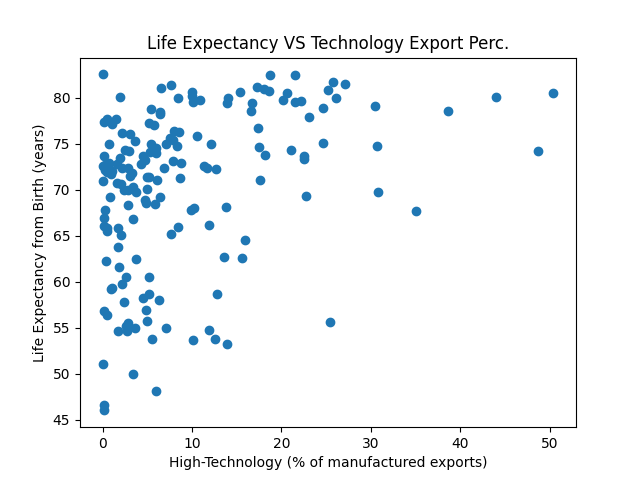
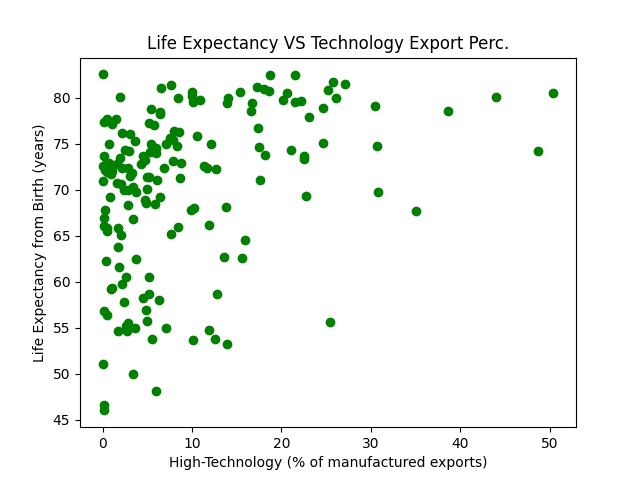
MS03 visuals/categories_sample_size.png

diff --git a/wf_visualization.py b/wf_visualization.py
@@ -1,5 +1,6 @@
 # INSTALLED matplotlib
 import matplotlib.pylab as plt
+
 import csv
 
 __author__ = "John Garvey"
@@ -8,6 +9,8 @@ __assignment = "Project MS03"
 
 # NUMBER OF COUNTRIES IN DATASET
 NUMB_COUNTRIES = 217
+# NUMBER OF DATA CATEGORIES
+NUMB_CATEGORIES = 5
 # life expectancy data and quantitative data lists
 le_total = []
 le_total_summ = []
@@ -43,6 +46,10 @@ def visualize_data():
     get_correlations()
     write_correlations_data_table()
     create_scatter_plots()
+
+    # TODO Create a histogram for qualitative data
+    create_histogram()
+
     """ PRIMITIVE TESTS """
     # print("Number of Countries is", len(le_total))
     # print("Life Expectancy in", le_total[206]['Country Name'], le_total[206]['Country Code'], "in 2015 is", int(float(le_total[206]['2015'])), "years old")
@@ -67,6 +74,44 @@ def visualize_data():
     pass
 
 
+def create_histogram():
+
+    # le_total_summ = LEB
+    # gdp_pcap_summ = GDP
+    # tech_expo_summ = HTE
+    # udwe_child_summ = UWC
+    # pov_ratio_summ = NPR
+
+    numbers_collected = [
+        le_total_summ[0]["Number Collected From"],
+        gdp_pcap_summ[0]["Number Collected From"],
+        tech_expo_summ[0]["Number Collected From"],
+        udwe_child_summ[0]["Number Collected From"],
+        pov_ratio_summ[0]["Number Collected From"],
+    ]
+
+    category_types = ["LEB", "GDP", "HTE", "UWC", "NPR"]
+
+    fig, ax = plt.subplots()
+    ax.set(title=r'Data Category Sample Sizes ', ylabel='Number of Countries Collectd From', xlabel="Data Categories")
+    bars = ax.bar(category_types, numbers_collected)
+    bars[0].set_color('green')
+    bars[0].set_label("LEB = "+le_total_summ[0]["Data Type"])
+    bars[1].set_color('red')
+    bars[1].set_label("GDP = "+gdp_pcap_summ[0]["Data Type"])
+    bars[2].set_color('purple')
+    bars[2].set_label("HTE = "+tech_expo_summ[0]["Data Type"])
+    bars[3].set_color('orange')
+    bars[3].set_label("UWC = "+udwe_child_summ[0]["Data Type"])
+    bars[4].set_color('blue')
+    bars[4].set_label("NPR = "+pov_ratio_summ[0]["Data Type"])
+    ax.bar_label(bars, fmt='%.2f')
+    ax.legend(loc='lower right')
+    fig.savefig("visuals/categories_sample_size.png")
+
+    pass
+
+
 def create_scatter_plots():
 
     # : Create scatter plots for all pairs of quantitative features that you selected.
@@ -75,39 +120,51 @@ def create_scatter_plots():
     #  plot the MEANS for all pair categories of data i.e. LEB, GDP, HTE, UWC, NPR
 
     # LEB_GDP = le_total_summ, gdp_pcap_summ
-    create_pair_plot(le_total_summ, gdp_pcap_summ, "LEB_GDP", "Life Expectancy VS GDP")
+    create_pair_plot(le_total_summ, gdp_pcap_summ, "LEB_GDP")
 
     # LEB_HTE = le_total_summ, tech_expo_summ
-    create_pair_plot(le_total_summ, tech_expo_summ, "LEB_HTE", "Life Expectancy VS Technology Export Perc.")
+    create_pair_plot(le_total_summ, tech_expo_summ, "LEB_HTE")
 
     # LEB_UWC = le_total_summ, udwe_child_summ
-    create_pair_plot(le_total_summ, udwe_child_summ, "LEB_UWC", "Life Expectancy VS Underweight Children")
+    create_pair_plot(le_total_summ, udwe_child_summ, "LEB_UWC")
 
     # LEB_NPR = le_total_summ, pov_ratio_summ
-    create_pair_plot(le_total_summ, pov_ratio_summ, "LEB_NPR", "Life Expectancy VS National Poverty Ratio")
+    """ 
+    There is noticeable difference between the plot and the correlation
+    The correlation is -0.324 but the plot seems to suggest a much stronger
+    negative correlation. This is because the plot is using all every countries
+    mean life expectancy and mean poverty ratio which shows a stronger correlation.
+    Each countries correlation is calculated from the matching data in each year for both 
+    life expectancy and  poverty ratio, if there is no data in each matching year then it not
+    add to the correlation calculation. Which means the calc correlation will use much fewer values
+    for its calculations. Each country may only have a couple entries for NPR so the only compare those
+    two entries with the corresponding years value for the LEB. Which means much different representations of the LEB
+    than the mean LEB of that country.
+    """
+    create_pair_plot(le_total_summ, pov_ratio_summ, "LEB_NPR")
 
     # GDP_HTE = gdp_pcap_summ, tech_expo_summ
-    create_pair_plot(gdp_pcap_summ, tech_expo_summ, "GDP_HTE", "GDP VS Technology Export Perc.")
+    create_pair_plot(gdp_pcap_summ, tech_expo_summ, "GDP_HTE")
 
     # GDP_UWC = gdp_pcap_summ, udwe_child_summ
-    create_pair_plot(gdp_pcap_summ, udwe_child_summ, "GDP_UWC", "GDP VS Underweight Children")
+    create_pair_plot(gdp_pcap_summ, udwe_child_summ, "GDP_UWC")
 
     # GDP_NPR = gdp_pcap_summ, pov_ratio_summ
-    create_pair_plot(gdp_pcap_summ, pov_ratio_summ, "GDP_NPR", "GDP VS National Poverty Ratio")
+    create_pair_plot(gdp_pcap_summ, pov_ratio_summ, "GDP_NPR")
 
     # HTE_UWC = tech_expo_summ, udwe_child_summ
-    create_pair_plot(tech_expo_summ, udwe_child_summ, "HTE_UWC", "Technology Export Perc. VS Underweight Children")
+    create_pair_plot(tech_expo_summ, udwe_child_summ, "HTE_UWC")
 
     # HTE_NPR = tech_expo_summ, pov_ratio_summ
-    create_pair_plot(tech_expo_summ, pov_ratio_summ, "HTE_NPR", "Technology Export Perc. VS National Poverty Ratio")
+    create_pair_plot(tech_expo_summ, pov_ratio_summ, "HTE_NPR")
 
     # UWC_NPR = udwe_child_summ, pov_ratio_summ
-    create_pair_plot(udwe_child_summ, pov_ratio_summ, "UWC_NPR", "Underweight Children VS National Poverty Ratio")
+    create_pair_plot(udwe_child_summ, pov_ratio_summ, "UWC_NPR")
 
     pass
 
 
-def create_pair_plot(summ_data_y, summ_data_x, indic, title):
+def create_pair_plot(summ_data_y, summ_data_x, indic):
 
     data_means_x = []
     data_means_y = []
@@ -120,9 +177,63 @@ def create_pair_plot(summ_data_y, summ_data_x, indic, title):
     # display_list(data_means_y)
 
     fig, ax = plt.subplots()
-    ax.set(title=title, ylabel=summ_data_y[0]["Data Type"], xlabel=summ_data_x[0]["Data Type"])
-    ax.scatter(data_means_x, data_means_y)
-    fig.savefig(f"visuals/{title.lower().replace(' ' ,'_')}.png")
+    match indic:
+        case "LEB_GDP":
+            title = "Life Expectancy VS GDP"
+            ax.scatter(data_means_x, data_means_y, color="red")
+            ax.set(title=title, ylabel=summ_data_y[0]["Data Type"], xlabel=summ_data_x[0]["Data Type"])
+            fig.savefig(f"visuals/{title.lower().replace(' ', '_')}.png")
+            ax.set(xlim=[0, 40000], title=title+" Focused", ylabel=summ_data_y[0]["Data Type"], xlabel=summ_data_x[0]["Data Type"])
+            fig.savefig(f"visuals/{title.lower().replace(' ', '_')}_focused.png")
+        case "LEB_HTE":
+            title = "Life Expectancy VS Technology Export Perc."
+            ax.scatter(data_means_x, data_means_y, color="green")
+            ax.set(title=title, ylabel=summ_data_y[0]["Data Type"], xlabel=summ_data_x[0]["Data Type"])
+            fig.savefig(f"visuals/{title.lower().replace(' ', '_')}.png")
+        case "LEB_UWC":
+            title = "Life Expectancy VS Underweight Children"
+            ax.scatter(data_means_x, data_means_y, color="purple")
+            ax.set(title=title, ylabel=summ_data_y[0]["Data Type"], xlabel=summ_data_x[0]["Data Type"])
+            fig.savefig(f"visuals/{title.lower().replace(' ', '_')}.png")
+        case "LEB_NPR":
+            title = "Life Expectancy VS National Poverty Ratio"
+            ax.scatter(data_means_x, data_means_y, color="hotpink")
+            ax.set(title=title, ylabel=summ_data_y[0]["Data Type"], xlabel=summ_data_x[0]["Data Type"])
+            fig.savefig(f"visuals/{title.lower().replace(' ', '_')}.png")
+        case "GDP_HTE":
+            title = "GDP VS Technology Export Perc."
+            ax.scatter(data_means_x, data_means_y, color="black")
+            ax.set(title=title, ylabel=summ_data_y[0]["Data Type"], xlabel=summ_data_x[0]["Data Type"])
+            fig.savefig(f"visuals/{title.lower().replace(' ', '_')}.png")
+        case "GDP_UWC":
+            title = "GDP VS Underweight Children"
+            ax.scatter(data_means_x, data_means_y, color="magenta")
+            ax.set(title=title, ylabel=summ_data_y[0]["Data Type"], xlabel=summ_data_x[0]["Data Type"])
+            fig.savefig(f"visuals/{title.lower().replace(' ', '_')}.png")
+            ax.set(ylim=[0, 20000], title=title+" Focused", ylabel=summ_data_y[0]["Data Type"], xlabel=summ_data_x[0]["Data Type"])
+            fig.savefig(f"visuals/{title.lower().replace(' ', '_')}_focused.png")
+        case "GDP_NPR":
+            title = "GDP VS National Poverty Ratio"
+            ax.scatter(data_means_x, data_means_y, color="blue")
+            ax.set(title=title, ylabel=summ_data_y[0]["Data Type"], xlabel=summ_data_x[0]["Data Type"])
+            fig.savefig(f"visuals/{title.lower().replace(' ', '_')}.png")
+            ax.set(ylim=[0, 20000], title=title+" Focused", ylabel=summ_data_y[0]["Data Type"], xlabel=summ_data_x[0]["Data Type"])
+            fig.savefig(f"visuals/{title.lower().replace(' ', '_')}_focused.png")
+        case "HTE_UWC":
+            title = "Technology Export Perc. VS Underweight Children"
+            ax.scatter(data_means_x, data_means_y, color="orange")
+            ax.set(title=title, ylabel=summ_data_y[0]["Data Type"], xlabel=summ_data_x[0]["Data Type"])
+            fig.savefig(f"visuals/{title.lower().replace(' ', '_')}.png")
+        case "HTE_NPR":
+            title = "Technology Export Perc. VS National Poverty Ratio"
+            ax.scatter(data_means_x, data_means_y, color="darkblue")
+            ax.set(title=title, ylabel=summ_data_y[0]["Data Type"], xlabel=summ_data_x[0]["Data Type"])
+            fig.savefig(f"visuals/{title.lower().replace(' ', '_')}.png")
+        case "UWC_NPR":
+            title = "Underweight Children VS National Poverty Ratio"
+            ax.scatter(data_means_x, data_means_y, color="brown")
+            ax.set(title=title, ylabel=summ_data_y[0]["Data Type"], xlabel=summ_data_x[0]["Data Type"])
+            fig.savefig(f"visuals/{title.lower().replace(' ', '_')}.png")
 
     pass
 
@@ -212,7 +323,6 @@ def get_correlations():
              'UWC_NPR': Global Mean,
             }
     """
-
     # : Setup correlation data list
     setup_correlations_data_list()
     # Load correlation data
@@ -228,7 +338,6 @@ def get_correlations():
     find_correlations_for(udwe_child, udwe_child_summ, pov_ratio, pov_ratio_summ, "UWC_NPR")
     # Get the mean from all countries correlations and save as global correlations
     get_global_correlations()
-
     pass
 
 
@@ -257,6 +366,7 @@ def add_global_corr_means(key_name):
     n = 0
     for i in range(len(all_correlations)):
         if all_correlations[i][key_name] is not None:
+            # SHOWS CORRELATIONS
             # print(key_name, ": ", all_correlations[i][key_name])
             sum_values.append(all_correlations[i][key_name])
             n += 1
@@ -303,6 +413,7 @@ def setup_correlations_data_list():
 def find_correlations_for(proc_data_list_x, has_means_x, proc_data_list_y, has_means_y, indic):
 
     for i in range(NUMB_COUNTRIES):
+        # print(i)
         correlation = get_correlation(proc_data_list_x[i], has_means_x[i+2]['Mean'], proc_data_list_y[i], has_means_y[i+2]['Mean'])
         # : Store country's correlation in correlation data list in appropriate field
         all_correlations[i + 1][indic] = correlation

diff --git a/wf_dataprocessing.py b/wf_dataprocessing.py
@@ -4,9 +4,12 @@ __author__ = "John Garvey"
 __date__ = "10/14/2023"
 __assignment = "Project MS03"
 
-# ['Series Name', 'Series Code', 'Country Name', 'Country Code', '2000 [YR2000]', '2001 [YR2001]', '2002 [YR2002]',
-# '2003 [YR2003]', '2004 [YR2004]', '2005 [YR2005]', '2006 [YR2006]', '2007 [YR2007]', '2008 [YR2008]', '2009 [YR2009]',
-# '2010 [YR2010]', '2011 [YR2011]', '2012 [YR2012]', '2013 [YR2013]', '2014 [YR2014]', '2015 [YR2015]']
+# Data Format:
+""" 
+['Series Name', 'Series Code', 'Country Name', 'Country Code', '2000 [YR2000]', '2001 [YR2001]', '2002 [YR2002]',
+'2003 [YR2003]', '2004 [YR2004]', '2005 [YR2005]', '2006 [YR2006]', '2007 [YR2007]', '2008 [YR2008]', '2009 [YR2009]',
+'2010 [YR2010]', '2011 [YR2011]', '2012 [YR2012]', '2013 [YR2013]', '2014 [YR2014]', '2015 [YR2015]'] 
+"""
 
 
 def process_data(input_filename):
@@ -26,6 +29,7 @@ def process_data(input_filename):
         for row in reader:
             # Life expectancy at birth
             if row['Series Code'] == "SP.DYN.LE00.IN":
+                # !!! NEED TO PUT PARATHESIS "" AROUND THE COUNTRY NAME BECAUSE CAN CONTAIN A COMMA FOR CSV!!!
                 life_expectancy_file.write("\""+row['Country Name']+"\",")
                 life_expectancy_file.write(f"{row['Country Code']},{row['2000 [YR2000]']},"
                               f"{row['2001 [YR2001]']},{row['2002 [YR2002]']},{row['2003 [YR2003]']},{row['2004 [YR2004]']},"
